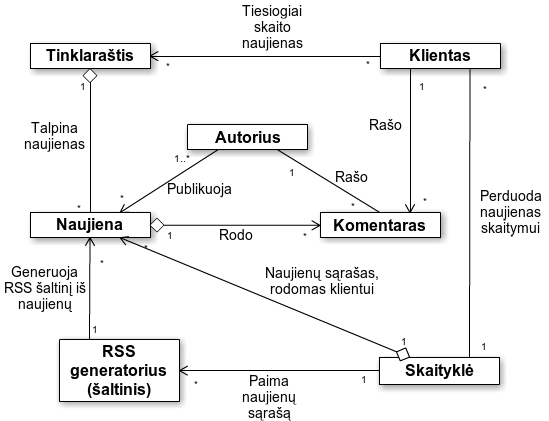
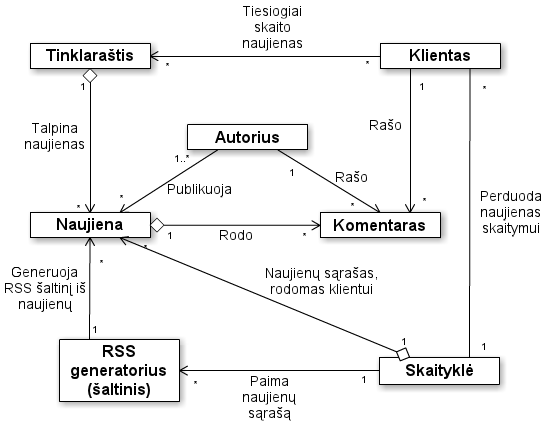
Smulkūs pataisymai

diff --git a/projektas/2.2_vidine_analize.md b/projektas/2.2_vidine_analize.md
@@ -264,7 +264,7 @@ Klientui, prieš naudojantis RSS šaltiniu, reikia jį pridėti į RSS agregator
 
 \begin{figure}[ht]
     \centering
-    \includegraphics[width=0.5\textwidth]{projektas/img/dass_naujiena.png}
+    \includegraphics[width=0.8\textwidth]{projektas/img/dass_naujiena.png}
     \caption{Dinaminė dalykinės srities struktūra: naujiena}
 \end{figure}
 
